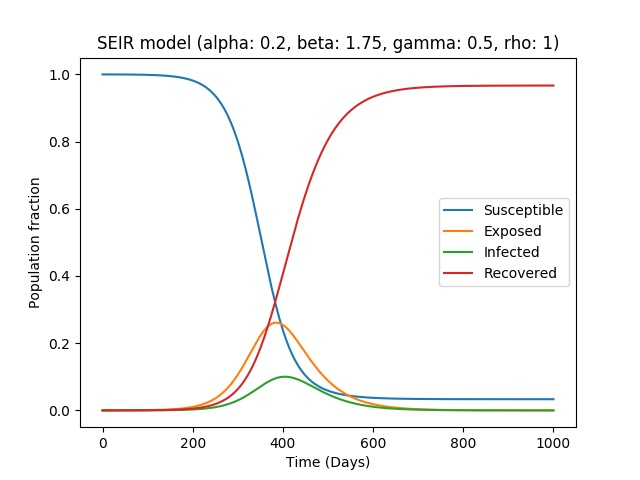
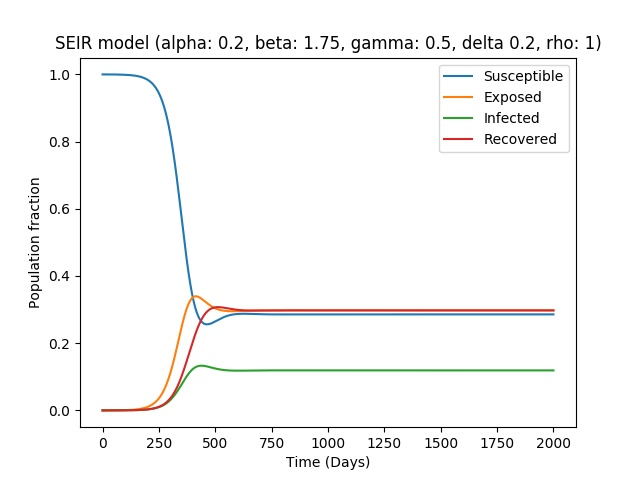
Turned model into SEIRS without vitals statistics.

diff --git a/test.py b/test.py
@@ -3,41 +3,23 @@ import matplotlib.pyplot as plt
 
 from agent.agent import Agent
 
-# N = 10000
-# init_vals = 1 - 1/N, 1/N, 0, 0
-#
-# alpha = 0.2
-# beta = 1.75
-# gamma = 0.5
-# params = alpha, beta, gamma
-#
-# test_agent = Agent(init_vals, [alpha, beta, gamma], [0.3, 0.3])
-#
-# for i in range(100):
-#     test_agent.next()
-#
-# # print(history)
-# plt.plot(test_agent.comps[:, 0])
-# plt.title(f'Single agent SEIR model ({[alpha, beta, gamma]})')
-# plt.show()
-
 
 def params2str(params):
-    alpha, beta, gamma, rho = params
-    return f"alpha: {alpha}, beta: {beta}, gamma: {gamma}, rho: {rho}"
+    alpha, beta, gamma, delta, rho = params
+    return f"alpha: {alpha}, beta: {beta}, gamma: {gamma}, delta {delta}, rho: {rho}"
 
 
 def seir_model_with_measurements(init_vals, params, t):
     S_0, E_0, I_0, R_0, C_0 = init_vals
     S, E, I, R, C = [S_0], [E_0], [I_0], [R_0], [C_0]
-    alpha, beta, gamma, rho = params
+    alpha, beta, gamma, delta, rho = params
     dt = t[1] - t[0]
 
     for _ in t[1:]:
-        next_S = S[-1] - (rho*beta*S[-1]*I[-1])*dt
+        next_S = S[-1] - (rho*beta*S[-1]*I[-1])*dt + (delta*R[-1])*dt  # Add fraction of recovered compartment.
         next_E = E[-1] + (rho*beta*S[-1]*I[-1] - alpha*E[-1])*dt
         next_I = I[-1] + (alpha*E[-1] - gamma*I[-1])*dt
-        next_R = R[-1] + (gamma*I[-1])*dt
+        next_R = R[-1] + (gamma*I[-1])*dt - (delta*R[-1])*dt  # Remove fraction of recovered compartment.
         next_C = C[-1] + (rho*3)*dt  # Cost!
 
         S.append(next_S)
@@ -50,7 +32,7 @@ def seir_model_with_measurements(init_vals, params, t):
 
 
 # Define parameters
-t_max = 100
+t_max = 200
 dt = .1
 t = np.linspace(0, t_max, int(t_max/dt) + 1)
 print(t)
@@ -60,9 +42,10 @@ init_vals = 1 - 1/N, 1/N, 0, 0, 0
 alpha = 0.2
 beta = 1.75
 gamma = 0.5
+delta = 0.2
 rho = 1
 
-params = alpha, beta, gamma, rho
+params = alpha, beta, gamma, delta, rho
 
 # Run simulation
 results = seir_model_with_measurements(init_vals, params, t)
